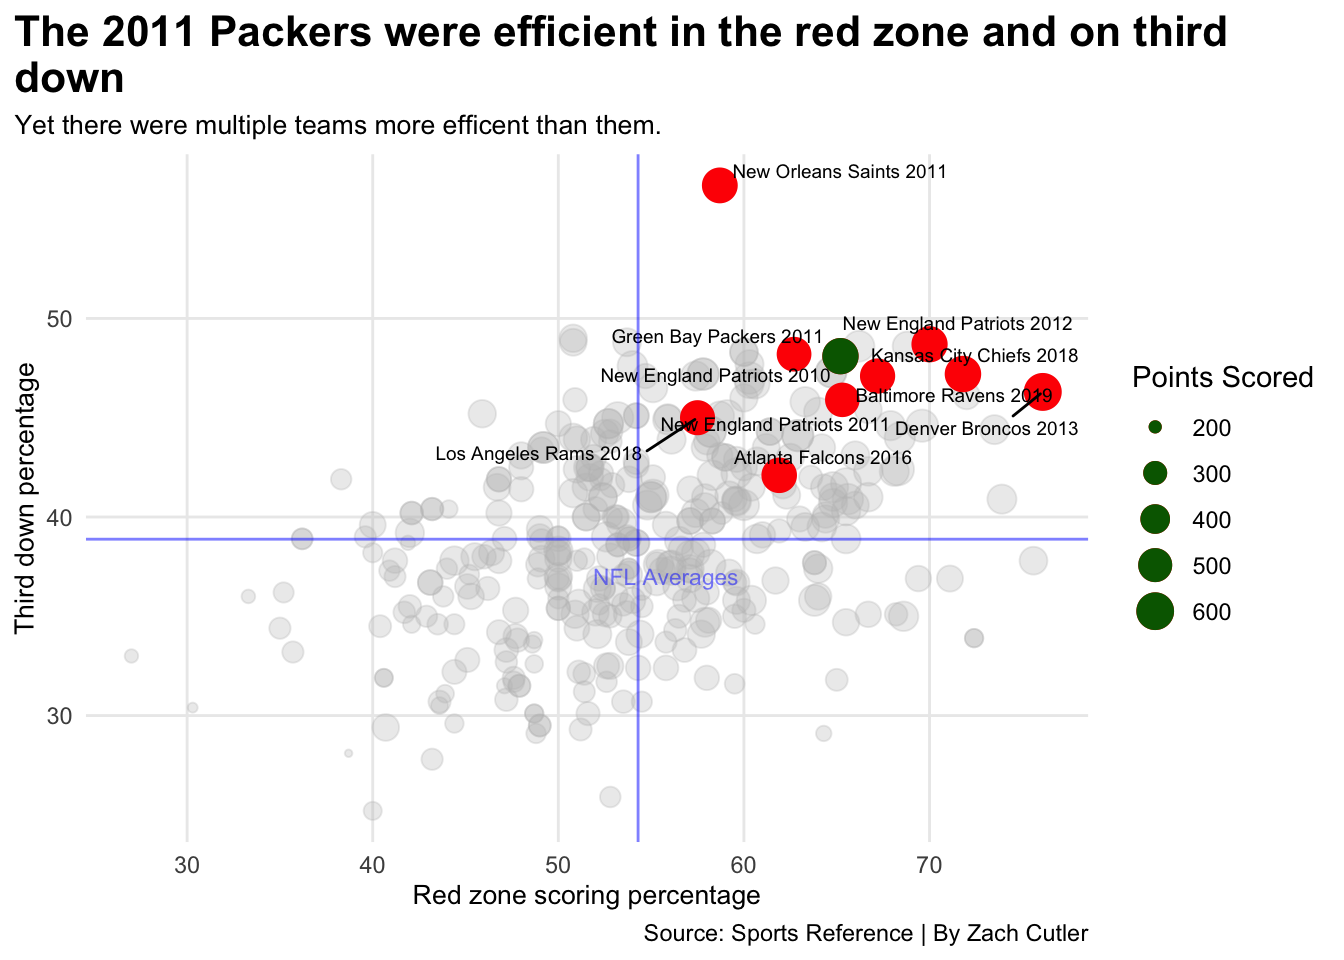
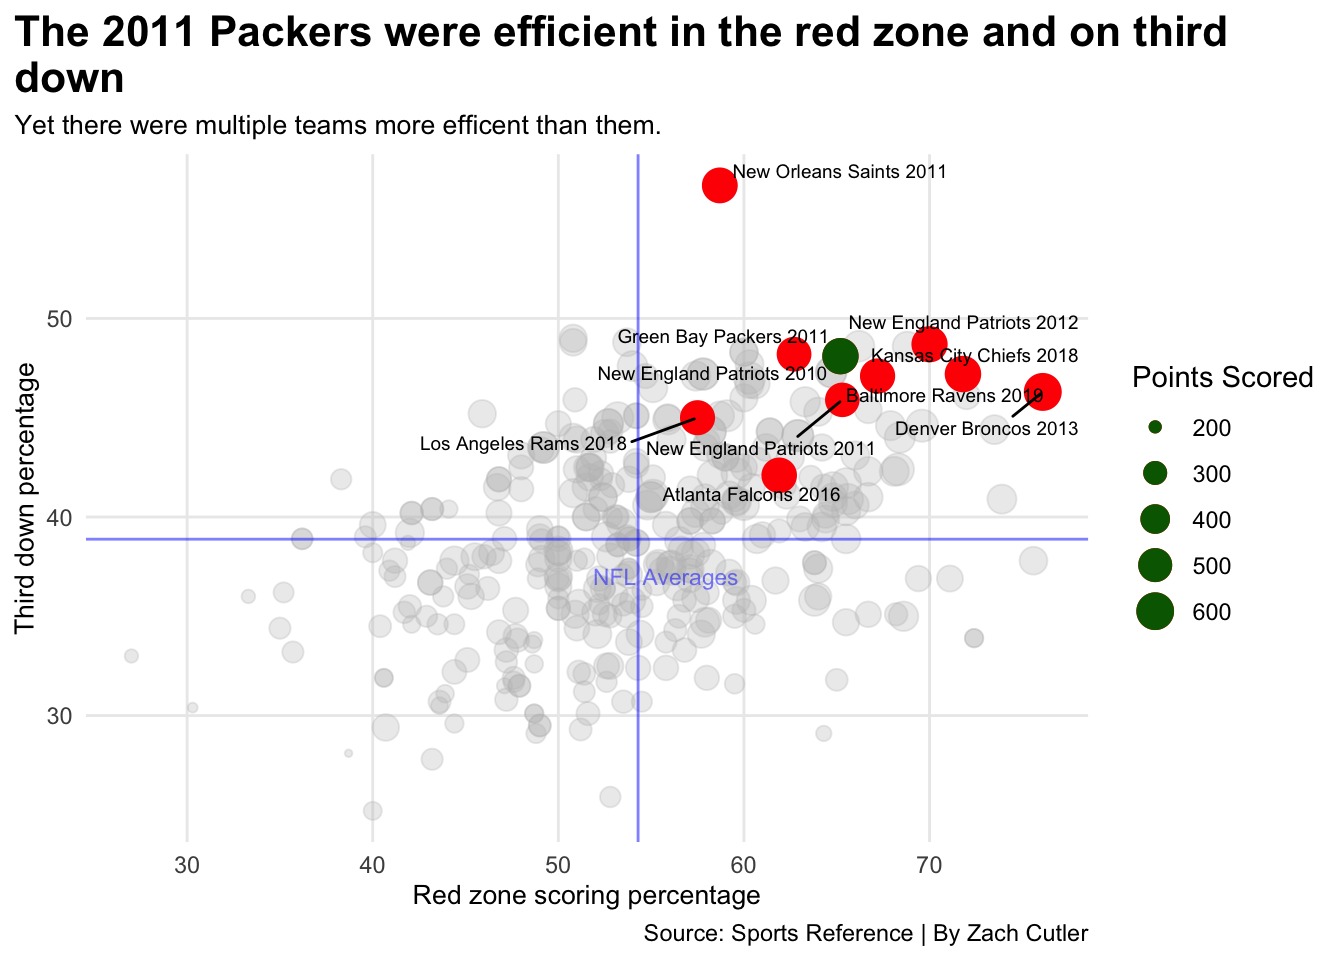
UPDATED
PLZ work

Changed region(s): [[0.3125, 0.4062, 0.7812, 0.5312], [0.4375, 0.3438, 0.625, 0.4062], [0.625, 0.3125, 0.8125, 0.3438]]

diff --git a/posts/where-did-the-2011-packers-rank-among-the-best-offenses-of-the-2010s/index.html b/posts/where-did-the-2011-packers-rank-among-the-best-offenses-of-the-2010s/index.html
@@ -477,7 +477,7 @@ code span.wa { color: #60a0b0; font-weight: bold; font-style: italic; } /* Warni
 <span id="cb4-7"><a href="#cb4-7" aria-hidden="true" tabindex="-1"></a>  ) <span class="sc">+</span></span>
 <span id="cb4-8"><a href="#cb4-8" aria-hidden="true" tabindex="-1"></a>  <span class="fu">geom_vline</span>(<span class="at">xintercept =</span><span class="fl">1800.56</span>, <span class="at">color=</span><span class="st">"blue"</span>, <span class="at">alpha=</span>.<span class="dv">5</span>) <span class="sc">+</span></span>
 <span id="cb4-9"><a href="#cb4-9" aria-hidden="true" tabindex="-1"></a>  <span class="fu">geom_hline</span>(<span class="at">yintercept =</span> <span class="fl">3744.188</span>  , <span class="at">color=</span><span class="st">"blue"</span>,<span class="at">alpha=</span>.<span class="dv">5</span>) <span class="sc">+</span></span>
-<span id="cb4-10"><a href="#cb4-10" aria-hidden="true" tabindex="-1"></a>  <span class="fu">geom_text</span>(<span class="fu">aes</span>(<span class="at">x=</span><span class="dv">1850</span>, <span class="at">y=</span><span class="dv">3685</span>), <span class="at">label=</span><span class="st">"NFL Averages"</span>, <span class="at">color=</span><span class="st">"blue"</span>, <span class="at">alpha=</span>.<span class="dv">5</span>, <span class="at">size=</span><span class="dv">3</span>)<span class="sc">+</span></span>
+<span id="cb4-10"><a href="#cb4-10" aria-hidden="true" tabindex="-1"></a>  <span class="fu">geom_text</span>(<span class="fu">aes</span>(<span class="at">x=</span><span class="dv">1850</span>, <span class="at">y=</span><span class="dv">3600</span>), <span class="at">label=</span><span class="st">"NFL Averages"</span>, <span class="at">color=</span><span class="st">"blue"</span>, <span class="at">alpha=</span>.<span class="dv">5</span>, <span class="at">size=</span><span class="dv">3</span>)<span class="sc">+</span></span>
 <span id="cb4-11"><a href="#cb4-11" aria-hidden="true" tabindex="-1"></a><span class="fu">theme_minimal</span>() <span class="sc">+</span></span>
 <span id="cb4-12"><a href="#cb4-12" aria-hidden="true" tabindex="-1"></a>   <span class="fu">theme</span>(</span>
 <span id="cb4-13"><a href="#cb4-13" aria-hidden="true" tabindex="-1"></a>    <span class="at">plot.title =</span> <span class="fu">element_text</span>(<span class="at">size =</span> <span class="dv">16</span>, <span class="at">face =</span> <span class="st">"bold"</span>),</span>

diff --git a/index.html b/index.html
@@ -164,7 +164,7 @@ ul.task-list li input[type="checkbox"] {
 
 <div class="quarto-listing quarto-listing-container-default" id="listing-listing">
 <div class="list quarto-listing-default">
-<div class="quarto-post image-right" data-index="0" data-categories="football,nfl,analysis" data-listing-date-sort="1669788000000" data-listing-file-modified-sort="1670015768980" data-listing-reading-time-sort="11.21">
+<div class="quarto-post image-right" data-index="0" data-categories="football,nfl,analysis" data-listing-date-sort="1669788000000" data-listing-file-modified-sort="1670016421096" data-listing-reading-time-sort="11.21">
 <div class="thumbnail">
 <p><a href="./posts/where-did-the-2011-packers-rank-among-the-best-offenses-of-the-2010s/index.html"> <img src="./posts/where-did-the-2011-packers-rank-among-the-best-offenses-of-the-2010s/image1.png" class="thumnail-image"> </a></p>
 </div>
